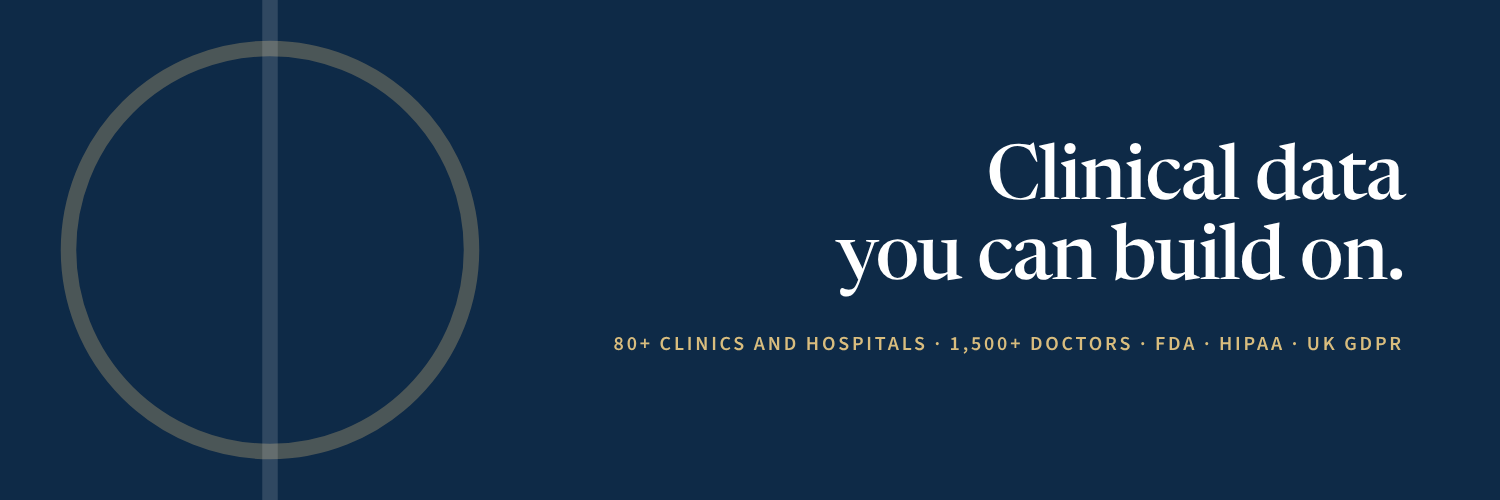
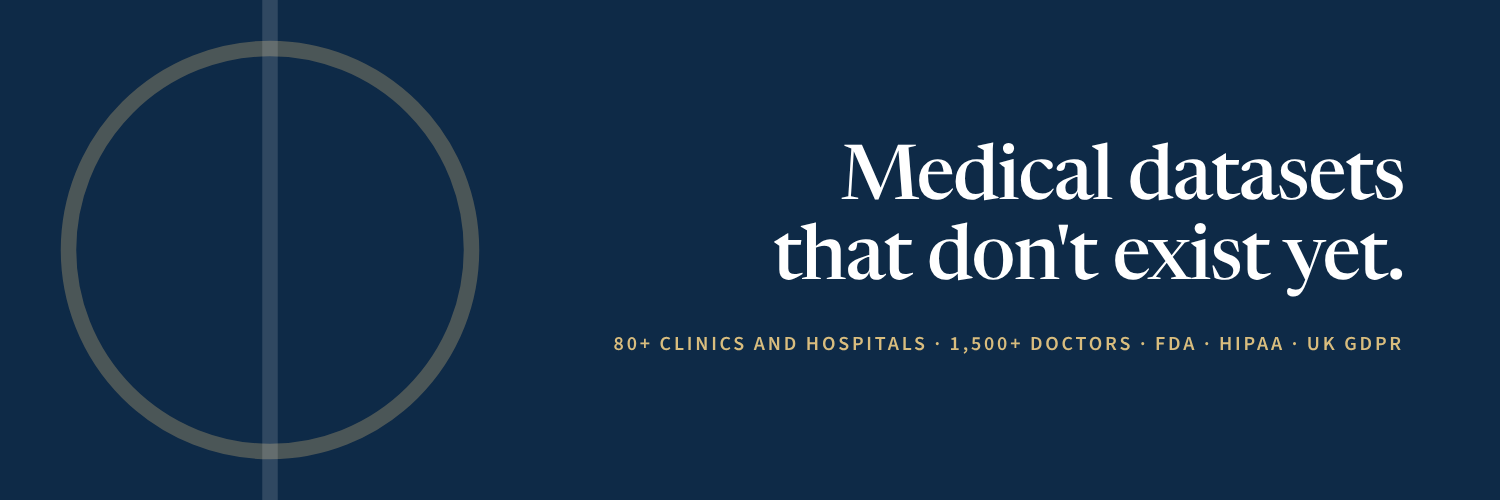
Reposition site around building and annotating datasets that don't exist yet
Claude-Session: https://claude.ai/code/session_01VrhBraZ9ZkY9q7Nm3PAixc

Changed region(s): [[0.552, 0.27, 0.9507, 0.42], [0.5213, 0.45, 0.92, 0.6]]

diff --git a/index.html b/index.html
@@ -3,27 +3,27 @@
 <head>
 <meta charset="utf-8">
 <meta name="viewport" content="width=device-width, initial-scale=1">
-<title>Physeia Data Labs | Clinical data you can build on</title>
-<meta name="description" content="Deidentified clinical data from 80+ partner clinics and hospitals across India, licensed with clear commercial rights and annotated by specialist doctors. Built to FDA, HIPAA and UK GDPR standards.">
+<title>Physeia Data Labs | Medical datasets that don't exist yet</title>
+<meta name="description" content="We build medical datasets that don't exist yet: collected to spec across 80+ partner clinics and hospitals in India and annotated by expert doctors. FDA, HIPAA and UK GDPR ready.">
 <meta name="theme-color" content="#0e2a47">
 <link rel="icon" href="favicon.svg" type="image/svg+xml">
 <link rel="canonical" href="https://physeiadatalab.com/">
 <meta property="og:url" content="https://physeiadatalab.com/">
 <meta property="og:type" content="website">
 <meta property="og:site_name" content="Physeia Data Labs">
-<meta property="og:title" content="Physeia Data Labs | Clinical data you can build on">
-<meta property="og:description" content="Deidentified clinical data from 80+ partner clinics and hospitals across India, with clear commercial rights and specialist annotation.">
+<meta property="og:title" content="Physeia Data Labs | Medical datasets that don't exist yet">
+<meta property="og:description" content="Medical datasets built to spec and annotated by expert doctors, from 80+ partner clinics and hospitals in India.">
 <meta property="og:image" content="https://physeiadatalab.com/og.png">
 <meta property="og:image:width" content="1200">
 <meta property="og:image:height" content="630">
-<meta property="og:image:alt" content="Physeia Data Labs: clinical data you can build on">
+<meta property="og:image:alt" content="Physeia Data Labs: medical datasets that don't exist yet">
 <meta name="twitter:card" content="summary_large_image">
 <link rel="preconnect" href="https://fonts.googleapis.com">
 <link rel="preconnect" href="https://fonts.gstatic.com" crossorigin>
 <link href="https://fonts.googleapis.com/css2?family=Newsreader:opsz,wght@6..72,400;6..72,500&family=Source+Sans+3:wght@400;500;600&display=swap" rel="stylesheet">
 <link rel="stylesheet" href="assets/site.css?v=202610301351">
 <script type="application/ld+json">
-{"@context":"https://schema.org","@type":"Organization","name":"Physeia Data Labs","description":"Deidentified clinical data from 80+ partner clinics and hospitals across India, licensed with clear commercial rights and annotated by specialist doctors.","url":"https://physeiadatalab.com/","email":"hello@physeiadatalab.com"}
+{"@context":"https://schema.org","@type":"Organization","name":"Physeia Data Labs","description":"We build medical datasets that don't exist yet, collected to spec across 80+ partner clinics and hospitals in India and annotated by expert doctors.","url":"https://physeiadatalab.com/","email":"hello@physeiadatalab.com"}
 </script>
 <!-- Asset provenance: icons are Solar by 480 Design (CC BY 4.0) from @iconify-json/solar, inlined at build time.
      Signal graphics are generated illustrative plots, not patient recordings.
@@ -63,17 +63,17 @@
   <section class="hero" id="top">
     <div class="wrap hero-grid">
       <div>
-        <span class="eyebrow" data-hero>Clinical data partner</span>
-        <h1>Clinical data<br>you can build on.</h1>
-        <p class="lede" data-hero>Deidentified clinical data from 80+ partner clinics and hospitals across India, licensed with clear commercial rights and annotated by specialist doctors.</p>
+        <span class="eyebrow" data-hero>Custom medical datasets and expert annotation</span>
+        <h1>Medical datasets<br>that don't exist&nbsp;yet.</h1>
+        <p class="lede" data-hero>We build them for you: collected to your spec across 80+ partner clinics and hospitals in India, and annotated by expert doctors. Ready for FDA, HIPAA and UK GDPR.</p>
         <div class="hero-ctas" data-hero>
           <a class="btn btn-primary" href="#contact">Request a feasibility review <svg class="icon-sm" viewBox="0 0 24 24" aria-hidden="true" focusable="false"><path fill="none" stroke="currentColor" stroke-linecap="round" stroke-linejoin="round" stroke-width="1.5" d="M4 12H20M14 18L20 12L14 6"/></svg></a>
           <a class="btn btn-ghost" href="#work">See our track record</a>
         </div>
         <ul class="proof" data-hero>
-          <li><b>700</b> EEGs annotated and delivered</li>
+          <li><b>700</b> EEG dataset built for an FDA 510(k)</li>
+          <li><b>35+ years</b> annotator experience</li>
           <li><b>1,500+</b> doctors in network</li>
-          <li><b>FDA · HIPAA · UK GDPR</b> ready</li>
         </ul>
       </div>
       <figure class="plate" data-seconds="10" style="margin:0">
@@ -90,22 +90,25 @@
     <div class="wrap">
       <div class="head" data-reveal>
         <span class="eyebrow">Track record</span>
-        <h2>Delivered so far.</h2>
-        <p>Two programs, both multisite and annotated by specialists.</p>
+        <h2>Datasets we have built.</h2>
+        <p>Both multisite, both annotated by specialists.</p>
       </div>
       <article class="case" data-reveal>
         <div class="case-copy">
           <p class="case-meta">Neurology · EEG · Client name withheld</p>
-          <h3>700 EEGs, annotated by neurologists in 3 months</h3>
-          <p>An EEG analysis company needed a large, expertly labelled dataset. We sourced 700 archived, hour long EEGs from multiple partner sites and had them annotated event by event by multiple neurologists, with every disagreement resolved through a written adjudication protocol.</p>
-          <p>Midway, the client asked for tighter event boundaries to train a more precise model. Our neurologists revised the annotations to the new spec, and the project still finished within 3 months.</p>
+          <h3>A 700 EEG dataset that didn't exist anywhere, built for an FDA 510(k) filing</h3>
+          <p>We handled everything: sourcing raw, hour long EEGs from multiple partner sites, ethics approval, commercial rights, recruiting annotators and running the annotation. Each recording holds millions of data points, the scale deep learning needs.</p>
+          <p>Expert readers often disagree on EEG events; published studies report a Cohen's kappa as low as 0.48 between two readers. So every file was annotated by multiple neurologists with 35+ years of experience, and conflicts were resolved through a written protocol. One of our partners trains 700+ neurology professionals internationally to read EEGs.</p>
+          <p>When the client asked for tighter event boundaries midway, our annotators revised them, and the project still finished within 3 months.</p>
         </div>
         <dl class="case-facts">
           <div><dt>Recordings</dt><dd>700, about 1 hour each</dd></div>
           <div><dt>Cohort</dt><dd>150 epilepsy, 550 without</dd></div>
+          <div><dt>Signal</dt><dd>250 Hz, multiple channels, millions of points per file</dd></div>
           <div><dt>Annotation depth</dt><dd>86 events per positive EEG on average</dd></div>
-          <div><dt>Readers</dt><dd>Multiple neurologists, with adjudication</dd></div>
-          <div><dt>Rights</dt><dd>Ethics approval and commercial use signed</dd></div>
+          <div><dt>Annotators</dt><dd>Multiple neurologists, 35+ years experience</dd></div>
+          <div><dt>Quality</dt><dd>Written conflict resolution protocol</dd></div>
+          <div><dt>Purpose</dt><dd>FDA 510(k) filing</dd></div>
           <div><dt>Delivery</dt><dd>Deidentified EDF, within 3 months</dd></div>
         </dl>
       </article>
@@ -142,7 +145,7 @@
       <div class="net">
         <div class="net-item" data-reveal><svg class="icon" viewBox="0 0 24 24" aria-hidden="true" focusable="false"><g fill="none" stroke="currentColor" stroke-linecap="round" stroke-width="1.5"><path d="M3 10C3 6.22876 3 4.34315 4.17157 3.17157C5.34315 2 7.22876 2 11 2H13C16.7712 2 18.6569 2 19.8284 3.17157C21 4.34315 21 6.22876 21 10V14C21 17.7712 21 19.6569 19.8284 20.8284C18.6569 22 16.7712 22 13 22H11C7.22876 22 5.34315 22 4.17157 20.8284C3 19.6569 3 17.7712 3 14V10Z"/><path d="M8 12H16"/><path d="M8 8H16"/><path d="M8 16H13"/></g></svg><h3>Clear ownership</h3><p>Private practices hold their own records, so licensing rights are simple to establish and document.</p></div>
         <div class="net-item" data-reveal data-delay=".08"><svg class="icon" viewBox="0 0 24 24" aria-hidden="true" focusable="false"><g fill="none" stroke="currentColor" stroke-linecap="round" stroke-width="1.5"><path d="M22 22L2 22"/><path d="M17 22V6C17 4.11438 17 3.17157 16.4142 2.58579C15.8284 2 14.8856 2 13 2H11C9.11438 2 8.17157 2 7.58579 2.58579C7 3.17157 7 4.11438 7 6V22"/><path d="M21 22V11.5C21 10.0955 21 9.39331 20.6629 8.88886C20.517 8.67048 20.3295 8.48298 20.1111 8.33706C19.6067 8 18.9045 8 17.5 8"/><path d="M3 22V11.5C3 10.0955 3 9.39331 3.33706 8.88886C3.48298 8.67048 3.67048 8.48298 3.88886 8.33706C4.39331 8 5.09554 8 6.5 8"/><path d="M12 22V19"/><path d="M10 5H14"/><path d="M10 8H14"/><path d="M10 11H14"/><path d="M10 14H14"/></g></svg><h3>Breadth and volume</h3><p>Clinics and hospitals across 7+ cities add volume and complex cases, so every dataset can be multisite by default.</p></div>
-        <div class="net-item" data-reveal data-delay=".16"><svg class="icon" viewBox="0 0 24 24" aria-hidden="true" focusable="false"><g fill="none" stroke="currentColor" stroke-linecap="round" stroke-width="1.5"><path d="M9 14.2354V17.0001C9 19.7615 11.2386 22.0001 14 22.0001H14.8824C16.7691 22.0001 18.3595 20.7311 18.8465 19.0001"/><path d="M5.42857 3H5.3369C5.02404 3 4.86761 3 4.73574 3.01166C3.28763 3.13972 2.13972 4.28763 2.01166 5.73574C2 5.86761 2 6.02404 2 6.3369V7.23529C2 11.1013 5.13401 14.2353 9 14.2353C12.7082 14.2353 15.7143 11.2292 15.7143 7.521V6.3369C15.7143 6.02404 15.7143 5.86761 15.7026 5.73574C15.5746 4.28763 14.4267 3.13972 12.9785 3.01166C12.8467 3 12.6902 3 12.3774 3H12.2857"/><circle cx="19" cy="16" r="3"/><path d="M12 2V4"/><path d="M6 2V4"/></g></svg><h3>Specialists on hand</h3><p>The same network supplies the specialists who annotate your data, across neurology, psychiatry, dermatology, cardiology, pathology and radiology.</p></div>
+        <div class="net-item" data-reveal data-delay=".16"><svg class="icon" viewBox="0 0 24 24" aria-hidden="true" focusable="false"><g fill="none" stroke="currentColor" stroke-linecap="round" stroke-width="1.5"><path d="M9 14.2354V17.0001C9 19.7615 11.2386 22.0001 14 22.0001H14.8824C16.7691 22.0001 18.3595 20.7311 18.8465 19.0001"/><path d="M5.42857 3H5.3369C5.02404 3 4.86761 3 4.73574 3.01166C3.28763 3.13972 2.13972 4.28763 2.01166 5.73574C2 5.86761 2 6.02404 2 6.3369V7.23529C2 11.1013 5.13401 14.2353 9 14.2353C12.7082 14.2353 15.7143 11.2292 15.7143 7.521V6.3369C15.7143 6.02404 15.7143 5.86761 15.7026 5.73574C15.5746 4.28763 14.4267 3.13972 12.9785 3.01166C12.8467 3 12.6902 3 12.3774 3H12.2857"/><circle cx="19" cy="16" r="3"/><path d="M12 2V4"/><path d="M6 2V4"/></g></svg><h3>Specialists on hand</h3><p>Senior specialists with decades of experience annotate your data, across neurology, psychiatry, dermatology, cardiology, pathology and radiology.</p></div>
       </div>
     </div>
   </section>
@@ -152,24 +155,24 @@
     <div class="wrap">
       <div class="head" data-reveal>
         <span class="eyebrow">Services</span>
-        <h2>License it, collect it, annotate it.</h2>
-        <p>Use one service or all three. We handle sites, approvals and logistics.</p>
+        <h2>Build it, annotate it, or license it.</h2>
+        <p>Most of our work is building datasets that don't exist yet. We handle sites, ethics, annotators and delivery, end to end.</p>
       </div>
       <div class="services">
         <article class="svc" data-reveal>
-          <div class="svc-top"><span class="svc-num">I</span><svg class="icon" viewBox="0 0 24 24" aria-hidden="true" focusable="false"><g fill="none" stroke="currentColor" stroke-linecap="round" stroke-width="1.5"><path d="M3 10C3 6.22876 3 4.34315 4.17157 3.17157C5.34315 2 7.22876 2 11 2H13C16.7712 2 18.6569 2 19.8284 3.17157C21 4.34315 21 6.22876 21 10V14C21 17.7712 21 19.6569 19.8284 20.8284C18.6569 22 16.7712 22 13 22H11C7.22876 22 5.34315 22 4.17157 20.8284C3 19.6569 3 17.7712 3 14V10Z"/><path d="M8 12H16"/><path d="M8 8H16"/><path d="M8 16H13"/></g></svg></div>
-          <h3>License archived data</h3>
-          <p>Deidentified records from partner archives. The quickest route to volume.</p>
+          <div class="svc-top"><span class="svc-num">I</span><svg class="icon" viewBox="0 0 24 24" aria-hidden="true" focusable="false"><g fill="none" stroke="currentColor" stroke-linecap="round" stroke-width="1.5"><path d="M22 22L2 22"/><path d="M17 22V6C17 4.11438 17 3.17157 16.4142 2.58579C15.8284 2 14.8856 2 13 2H11C9.11438 2 8.17157 2 7.58579 2.58579C7 3.17157 7 4.11438 7 6V22"/><path d="M21 22V8.5C21 7.09554 21 6.39331 20.6629 5.88886C20.517 5.67048 20.3295 5.48298 20.1111 5.33706C19.6067 5 18.9045 5 17.5 5"/><path d="M3 22V8.5C3 7.09554 3 6.39331 3.33706 5.88886C3.48298 5.67048 3.67048 5.48298 3.88886 5.33706C4.39331 5 5.09554 5 6.5 5"/><path d="M12 22V19"/><path d="M10 12H14"/><path d="M5.5 11H7"/><path d="M5.5 14H7"/><path d="M17 11H18.5"/><path d="M17 14H18.5"/><path d="M5.5 8H7"/><path d="M17 8H18.5"/><path d="M10 15H14"/><path stroke-linejoin="round" d="M12 9V5"/><path stroke-linejoin="round" d="M14 7L10 7"/></g></svg></div>
+          <h3>Build new datasets</h3>
+          <p>Prospective, consented collection to your exact protocol and inclusion criteria, drawn from thousands of daily outpatients across our network.</p>
         </article>
         <article class="svc" data-reveal data-delay=".08">
-          <div class="svc-top"><span class="svc-num">II</span><svg class="icon" viewBox="0 0 24 24" aria-hidden="true" focusable="false"><g fill="none" stroke="currentColor" stroke-linecap="round" stroke-width="1.5"><path d="M22 22L2 22"/><path d="M17 22V6C17 4.11438 17 3.17157 16.4142 2.58579C15.8284 2 14.8856 2 13 2H11C9.11438 2 8.17157 2 7.58579 2.58579C7 3.17157 7 4.11438 7 6V22"/><path d="M21 22V8.5C21 7.09554 21 6.39331 20.6629 5.88886C20.517 5.67048 20.3295 5.48298 20.1111 5.33706C19.6067 5 18.9045 5 17.5 5"/><path d="M3 22V8.5C3 7.09554 3 6.39331 3.33706 5.88886C3.48298 5.67048 3.67048 5.48298 3.88886 5.33706C4.39331 5 5.09554 5 6.5 5"/><path d="M12 22V19"/><path d="M10 12H14"/><path d="M5.5 11H7"/><path d="M5.5 14H7"/><path d="M17 11H18.5"/><path d="M17 14H18.5"/><path d="M5.5 8H7"/><path d="M17 8H18.5"/><path d="M10 15H14"/><path stroke-linejoin="round" d="M12 9V5"/><path stroke-linejoin="round" d="M14 7L10 7"/></g></svg></div>
-          <h3>Collect new data</h3>
-          <p>Prospective, consented collection to your exact protocol and inclusion criteria, drawn from thousands of daily outpatients. This is where our partnerships add the most value.</p>
+          <div class="svc-top"><span class="svc-num">II</span><svg class="icon" viewBox="0 0 24 24" aria-hidden="true" focusable="false"><g fill="none" stroke="currentColor" stroke-linecap="round" stroke-width="1.5"><path d="M22 10.5V12C22 16.714 22 19.0711 20.5355 20.5355C19.0711 22 16.714 22 12 22C7.28595 22 4.92893 22 3.46447 20.5355C2 19.0711 2 16.714 2 12C2 7.28595 2 4.92893 3.46447 3.46447C4.92893 2 7.28595 2 12 2H13.5"/><path d="M16.652 3.45506L17.3009 2.80624C18.3759 1.73125 20.1188 1.73125 21.1938 2.80624C22.2687 3.88124 22.2687 5.62415 21.1938 6.69914L20.5449 7.34795M16.652 3.45506C16.652 3.45506 16.7331 4.83379 17.9497 6.05032C19.1662 7.26685 20.5449 7.34795 20.5449 7.34795M16.652 3.45506L10.6872 9.41993C10.2832 9.82394 10.0812 10.0259 9.90743 10.2487C9.70249 10.5114 9.52679 10.7957 9.38344 11.0965C9.26191 11.3515 9.17157 11.6225 8.99089 12.1646L8.41242 13.9M8.41242 13.9L8.03811 15.0229C7.9492 15.2897 8.01862 15.5837 8.21744 15.7826C8.41626 15.9814 8.71035 16.0508 8.97709 15.9619L10.1 15.5876L11.8354 15.0091C12.3775 14.8284 12.6485 14.7381 12.9035 14.6166C13.2043 14.4732 13.4886 14.2975 13.7513 14.0926C13.9741 13.9188 14.1761 13.7168 14.5801 13.3128L20.5449 7.34795M10.1 15.5876L8.41242 13.9"/></g></svg></div>
+          <h3>Expert annotation</h3>
+          <p>Senior specialists label to your guidelines, with multiple readers and a written protocol for resolving disagreements. On our data or yours.</p>
         </article>
         <article class="svc" data-reveal data-delay=".16">
-          <div class="svc-top"><span class="svc-num">III</span><svg class="icon" viewBox="0 0 24 24" aria-hidden="true" focusable="false"><g fill="none" stroke="currentColor" stroke-linecap="round" stroke-width="1.5"><path d="M22 10.5V12C22 16.714 22 19.0711 20.5355 20.5355C19.0711 22 16.714 22 12 22C7.28595 22 4.92893 22 3.46447 20.5355C2 19.0711 2 16.714 2 12C2 7.28595 2 4.92893 3.46447 3.46447C4.92893 2 7.28595 2 12 2H13.5"/><path d="M16.652 3.45506L17.3009 2.80624C18.3759 1.73125 20.1188 1.73125 21.1938 2.80624C22.2687 3.88124 22.2687 5.62415 21.1938 6.69914L20.5449 7.34795M16.652 3.45506C16.652 3.45506 16.7331 4.83379 17.9497 6.05032C19.1662 7.26685 20.5449 7.34795 20.5449 7.34795M16.652 3.45506L10.6872 9.41993C10.2832 9.82394 10.0812 10.0259 9.90743 10.2487C9.70249 10.5114 9.52679 10.7957 9.38344 11.0965C9.26191 11.3515 9.17157 11.6225 8.99089 12.1646L8.41242 13.9M8.41242 13.9L8.03811 15.0229C7.9492 15.2897 8.01862 15.5837 8.21744 15.7826C8.41626 15.9814 8.71035 16.0508 8.97709 15.9619L10.1 15.5876L11.8354 15.0091C12.3775 14.8284 12.6485 14.7381 12.9035 14.6166C13.2043 14.4732 13.4886 14.2975 13.7513 14.0926C13.9741 13.9188 14.1761 13.7168 14.5801 13.3128L20.5449 7.34795M10.1 15.5876L8.41242 13.9"/></g></svg></div>
-          <h3>Expert annotation</h3>
-          <p>Specialist doctors label to your guidelines, with multiple readers and adjudication. On our data or yours.</p>
+          <div class="svc-top"><span class="svc-num">III</span><svg class="icon" viewBox="0 0 24 24" aria-hidden="true" focusable="false"><g fill="none" stroke="currentColor" stroke-linecap="round" stroke-width="1.5"><path d="M3 10C3 6.22876 3 4.34315 4.17157 3.17157C5.34315 2 7.22876 2 11 2H13C16.7712 2 18.6569 2 19.8284 3.17157C21 4.34315 21 6.22876 21 10V14C21 17.7712 21 19.6569 19.8284 20.8284C18.6569 22 16.7712 22 13 22H11C7.22876 22 5.34315 22 4.17157 20.8284C3 19.6569 3 17.7712 3 14V10Z"/><path d="M8 12H16"/><path d="M8 8H16"/><path d="M8 16H13"/></g></svg></div>
+          <h3>License archived data</h3>
+          <p>Deidentified records from partner archives, ready for annotation. The quickest route to volume.</p>
         </article>
       </div>
       <div class="cap-grid" data-reveal>
@@ -348,7 +351,7 @@
     <div class="foot-top">
       <div>
         <a class="brand" href="./" aria-label="Physeia Data Labs home"><svg class="brand-mark" viewBox="0 0 32 32" aria-hidden="true"><rect width="32" height="32" rx="8" fill="#0e2a47"/><circle cx="16" cy="16" r="6.5" fill="none" stroke="#d9bd7e" stroke-width="1.8"/><path d="M16 6.5v19" stroke="#ffffff" stroke-width="1.8" stroke-linecap="round"/></svg><span class="brand-word">Physeia<small>DATA LABS</small></span></a>
-        <p>Ground truth, from real clinics and hospitals. Deidentified clinical data, licensed and annotated by specialists.</p>
+        <p>Medical datasets that don't exist yet, built to spec and annotated by expert doctors.</p>
       </div>
       <div class="foot-col">
         <h4>Company</h4>

diff --git a/privacy.html b/privacy.html
@@ -44,7 +44,7 @@
     <div class="foot-top">
       <div>
         <a class="brand" href="./" aria-label="Physeia Data Labs home"><svg class="brand-mark" viewBox="0 0 32 32" aria-hidden="true"><rect width="32" height="32" rx="8" fill="#0e2a47"/><circle cx="16" cy="16" r="6.5" fill="none" stroke="#d9bd7e" stroke-width="1.8"/><path d="M16 6.5v19" stroke="#ffffff" stroke-width="1.8" stroke-linecap="round"/></svg><span class="brand-word">Physeia<small>DATA LABS</small></span></a>
-        <p>Ground truth, from real clinics and hospitals. Deidentified clinical data, licensed and annotated by specialists.</p>
+        <p>Medical datasets that don't exist yet, built to spec and annotated by expert doctors.</p>
       </div>
       <div class="foot-col">
         <h4>Company</h4>

diff --git a/terms.html b/terms.html
@@ -42,7 +42,7 @@
     <div class="foot-top">
       <div>
         <a class="brand" href="./" aria-label="Physeia Data Labs home"><svg class="brand-mark" viewBox="0 0 32 32" aria-hidden="true"><rect width="32" height="32" rx="8" fill="#0e2a47"/><circle cx="16" cy="16" r="6.5" fill="none" stroke="#d9bd7e" stroke-width="1.8"/><path d="M16 6.5v19" stroke="#ffffff" stroke-width="1.8" stroke-linecap="round"/></svg><span class="brand-word">Physeia<small>DATA LABS</small></span></a>
-        <p>Ground truth, from real clinics and hospitals. Deidentified clinical data, licensed and annotated by specialists.</p>
+        <p>Medical datasets that don't exist yet, built to spec and annotated by expert doctors.</p>
       </div>
       <div class="foot-col">
         <h4>Company</h4>

diff --git a/404.html b/404.html
@@ -32,7 +32,7 @@
     <div class="foot-top">
       <div>
         <a class="brand" href="/" aria-label="Physeia Data Labs home"><svg class="brand-mark" viewBox="0 0 32 32" aria-hidden="true"><rect width="32" height="32" rx="8" fill="#0e2a47"/><circle cx="16" cy="16" r="6.5" fill="none" stroke="#d9bd7e" stroke-width="1.8"/><path d="M16 6.5v19" stroke="#ffffff" stroke-width="1.8" stroke-linecap="round"/></svg><span class="brand-word">Physeia<small>DATA LABS</small></span></a>
-        <p>Ground truth, from real clinics and hospitals. Deidentified clinical data, licensed and annotated by specialists.</p>
+        <p>Medical datasets that don't exist yet, built to spec and annotated by expert doctors.</p>
       </div>
       <div class="foot-col">
         <h4>Company</h4>

diff --git a/assets/site.css b/assets/site.css
@@ -152,7 +152,7 @@ h3 { font-size: 1.5rem; line-height: 2rem; letter-spacing: -0.01em; }
 }
 @media (min-width: 640px) { .hero h1 { font-size: 3.75rem; } }
 @media (min-width: 1024px) and (max-width: 1279px) { .hero h1 { font-size: 3.75rem; } }
-@media (min-width: 1280px) { .hero h1 { font-size: 4.5rem; } .hero-grid { grid-template-columns: minmax(0, 1.1fr) minmax(0, 1fr); } }
+@media (min-width: 1280px) { .hero h1 { font-size: 4rem; } .hero-grid { grid-template-columns: minmax(0, 1.1fr) minmax(0, 1fr); } }
 .hero h1 .w { display: inline-block; }
 .hero h1.split { background: none; color: var(--navy); }
 .hero h1 > span[aria-hidden] { position: relative; display: block; }
